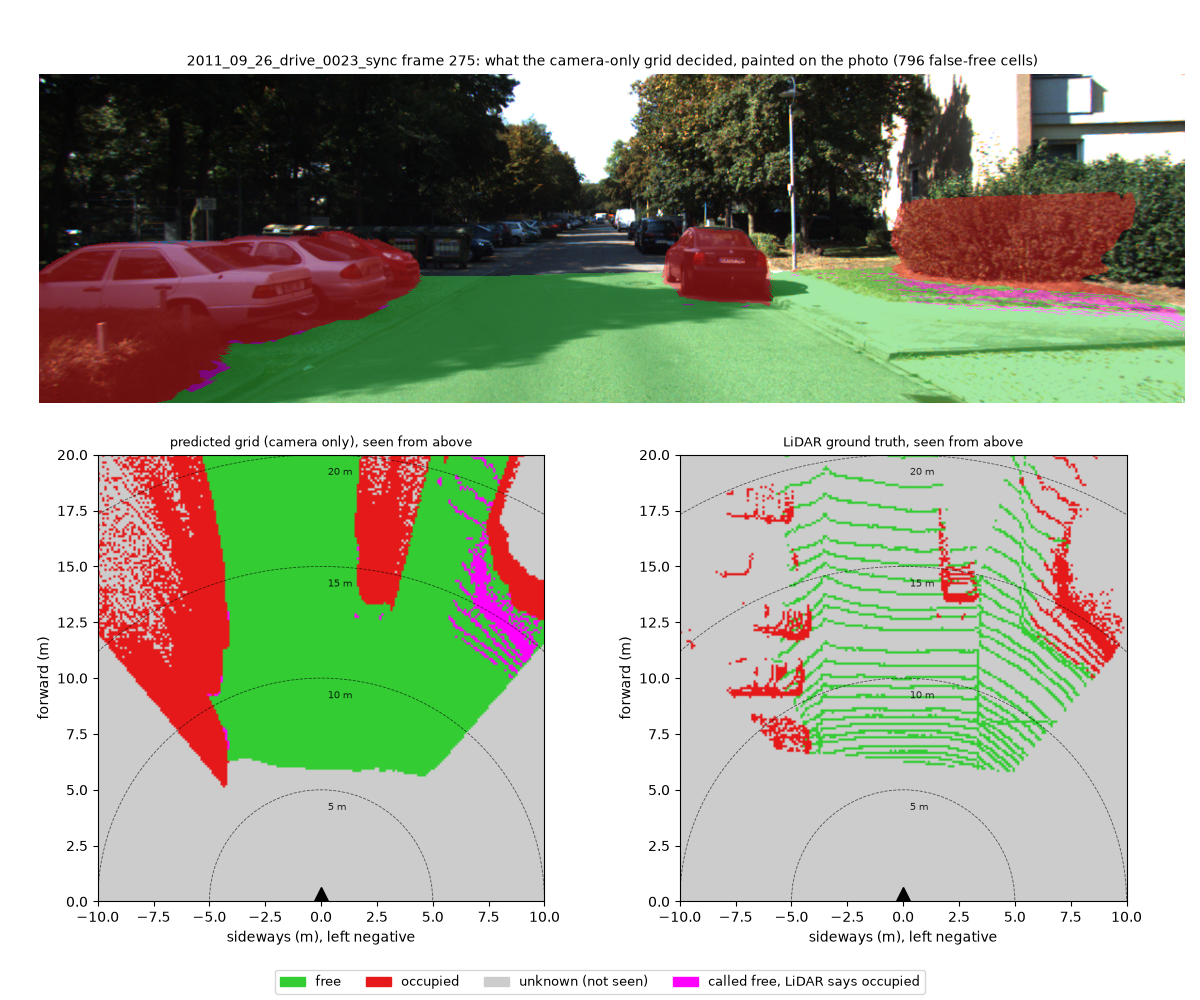
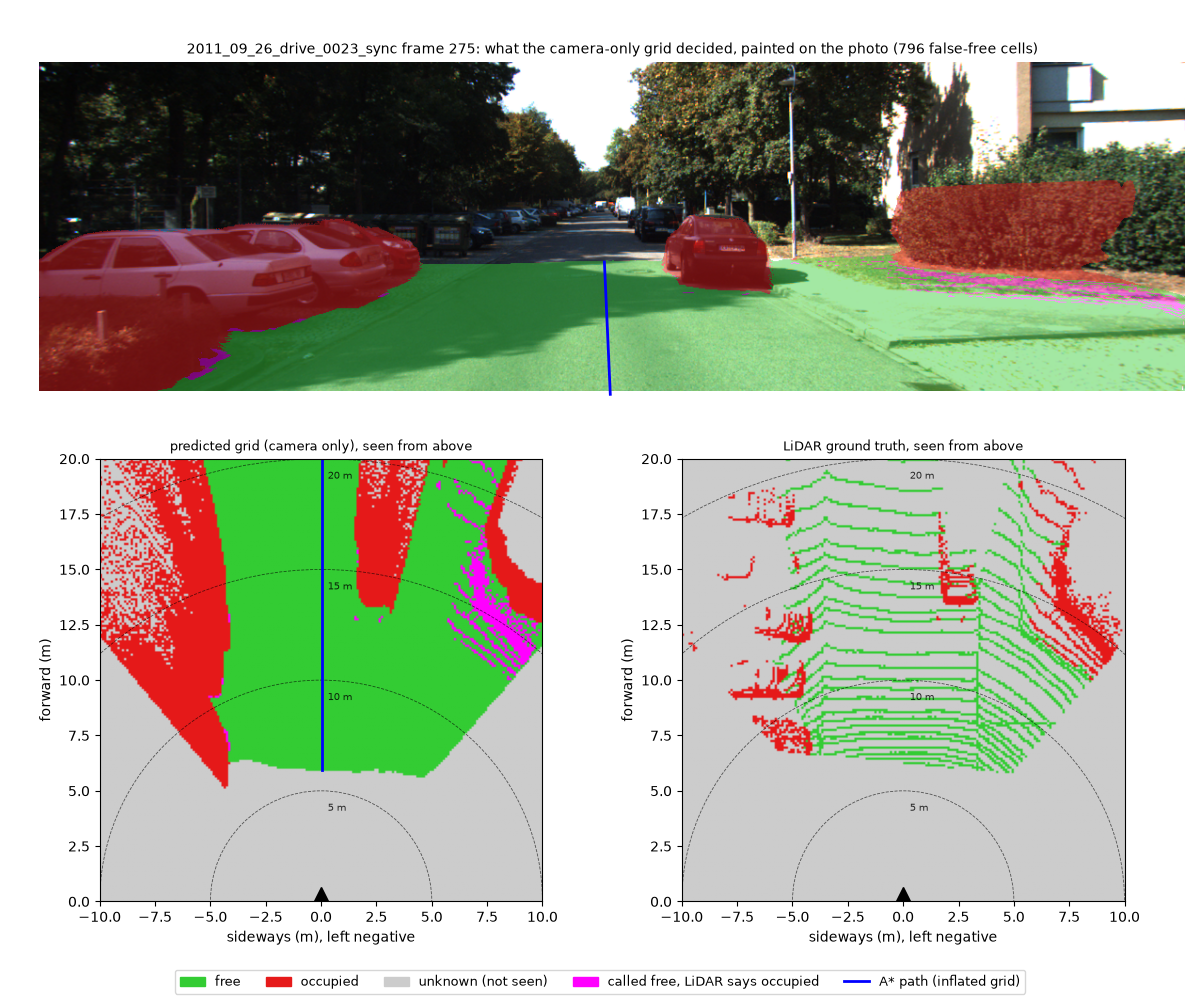
Model complete, planner and segmentation  installed and reported

diff --git a/eval_freespace.py b/eval_freespace.py
@@ -10,14 +10,17 @@ import matplotlib.pyplot as plt
  
 from matplotlib.patches import Circle, Patch
  
-from bev import FREE, OCCUPIED, UNKNOWN, build_grid, cell_centres, cell_index, lidar_to_bev
-from camera import backproject, lidar_to_depth_map, transform_points
+from bev import (FREE, OCCUPIED, UNKNOWN, build_grid, cell_centres, cell_index,
+                 inflate, lidar_to_bev)
+from camera import backproject, lidar_to_depth_map, project, transform_points
 from depth_model import DepthModel, METRIC_CKPT
 from eval_depth import crop_bottom_centre, val_drives
 from ground_plane import fit_ground
 from kitti_loader import KittiRawDrive
+from planner import astar, pick_start_goal
 from pointcloud import IGNORE, classify_heights, floor_frame
 from scale import estimate_metric_scale
+from segmenter import Segmenter, fuse_labels
  
 KITTI_CAMERA_HEIGHT = 1.65
 # Grid for KITTI: the camera sees no road closer than ~5.9 m, so the
@@ -25,6 +28,7 @@ KITTI_CAMERA_HEIGHT = 1.65
 CELL, X_MAX, Y_HALF = 0.10, 20.0, 10.0          # metres
 BANDS = ((0, 10), (10, 15), (15, 20))           # distance from the robot, metres
 UPSAMPLE = 4    # rows per image row before back-projection (see upsample_rows)
+ROBOT_RADIUS = 1.0                              # metres: KITTI car is ~1.8 m wide
  
  
 def upsample_rows(depth, K, k=UPSAMPLE):
@@ -102,15 +106,19 @@ def main():
     p.add_argument("--tag", default="pretrained")
     p.add_argument("--report_dir", default="report")
     p.add_argument("--images", type=int, default=3)
+    p.add_argument("--drivable", default="none", choices=["none", "road", "road+sidewalk"])
     a = p.parse_args()
  
     model = DepthModel(a.checkpoint, weights=a.weights)
+    seg = None if a.drivable == "none" else Segmenter()
+    drivable_ids = None if seg is None else seg.ids(a.drivable.split("+"))
     drives, _ = val_drives(a.root, a.depth_root)
     xs, ys = cell_centres(CELL, X_MAX, Y_HALF)
     dist = np.hypot(xs, ys)
     band_masks = {"all": np.ones_like(dist, bool)}
     band_masks.update({f"{lo}-{hi}m": (dist >= lo) & (dist < hi) for lo, hi in BANDS})
     totals = {k: np.zeros(5, int) for k in band_masks}
+    totals_inf = {k: np.zeros(5, int) for k in band_masks}     # on the inflated grid
     refused, worst = [], []
  
     for date, num, name in drives:
@@ -135,7 +143,13 @@ def main():
                 depth, T = pred, floor_frame(fit["n"], fit["d"])
             depth_k, K_k = upsample_rows(depth, K)
             pts = transform_points(backproject(depth_k, K_k).reshape(-1, 3), T)
-            pred_grid = build_grid(pts, classify_heights(pts), CELL, X_MAX, Y_HALF)
+            labels = classify_heights(pts)
+            if seg is not None:                              # Phase 4 fusion
+                sem = seg.predict(img)
+                sem_k = cv2.resize(sem, (W, UPSAMPLE * H), interpolation=cv2.INTER_NEAREST)
+                labels = fuse_labels(labels, sem_k.reshape(-1), drivable_ids)
+            pred_grid = build_grid(pts, labels, CELL, X_MAX, Y_HALF)
+            pred_inf = inflate(pred_grid, ROBOT_RADIUS, CELL)
  
             # ---- ground-truth grid: LiDAR, with its own floor plane ----
             scan = drive.load_velodyne(f)
@@ -150,36 +164,55 @@ def main():
             known = gt_grid != UNKNOWN
             for k, m in band_masks.items():
                 totals[k] += counts(pred_grid, gt_grid, known & m)
+                totals_inf[k] += counts(pred_inf, gt_grid, known & m)
  
             n_ff = int(((pred_grid == FREE) & (gt_grid == OCCUPIED)).sum())
             if len(worst) < a.images or n_ff > worst[-1][0]:
                 # the photo overlay uses one 3D point per original pixel
                 px = transform_points(backproject(depth, K).reshape(-1, 3), T)
-                painted = paint_photo(img, px, classify_heights(px), pred_grid, gt_grid)
-                worst.append((n_ff, name, f, painted, pred_grid, gt_grid))
+                px_labels = classify_heights(px)
+                if seg is not None:
+                    px_labels = fuse_labels(px_labels, sem.reshape(-1), drivable_ids)
+                painted = paint_photo(img, px, px_labels, pred_grid, gt_grid)
+                start, goal = pick_start_goal(pred_inf)
+                path = astar(pred_inf, start, goal) if start is not None else None
+                worst.append((n_ff, name, f, painted, pred_grid, gt_grid, path, T, K))
                 worst.sort(key=lambda w: -w[0])
                 del worst[a.images:]
         print(f"  {name}: {len(frames)} frames done")
  
     # ---------------- report ----------------
-    report = {"tag": a.tag, "weights": a.weights, "scale": a.scale,
+    report = {"tag": a.tag, "weights": a.weights, "scale": a.scale, "drivable": a.drivable,
+              "robot_radius_m": ROBOT_RADIUS,
               "cell_m": CELL, "x_max_m": X_MAX, "y_half_m": Y_HALF,
               "frames_refused": len(refused), "refused": refused[:20],
               "metrics": {k: ratios(c) for k, c in totals.items()}}
+    for k, c in totals_inf.items():
+        report["metrics"][k]["false_free_rate_inflated"] = c[2] / max(c[3], 1)
     print(f"\nframes refused: {len(refused)}")
-    print(f"\n{'band':>8s}  {'free IoU':>9s}  {'false-free':>10s}  {'missed obst.':>12s}  {'cells':>9s}")
+    print(f"\n{'band':>8s}  {'free IoU':>9s}  {'false-free':>10s}  {'FF inflated':>11s}  "
+          f"{'missed obst.':>12s}  {'cells':>9s}")
     for k, m in report["metrics"].items():
         print(f"{k:>8s}  {m['free_iou']:9.3f}  {m['false_free_rate']:10.3f}  "
-              f"{m['missed_obstacle_rate']:12.3f}  {m['cells_evaluated']:9d}")
+              f"{m['false_free_rate_inflated']:11.3f}  {m['missed_obstacle_rate']:12.3f}  "
+              f"{m['cells_evaluated']:9d}")
  
     os.makedirs(os.path.join(a.report_dir, "image"), exist_ok=True)
     print(f"\nframes with the most false-free cells:")
     legend = [Patch(color=GREEN, label="free"), Patch(color=RED, label="occupied"),
               Patch(color=GREY, label="unknown (not seen)"),
               Patch(color=MAGENTA, label="called free, LiDAR says occupied")]
-    for n_ff, name, f, painted, pg, gg in worst:
+    legend.append(plt.Line2D([], [], color="blue", lw=2, label="A* path (inflated grid)"))
+    for n_ff, name, f, painted, pg, gg, path, T, K in worst:
+        if path:                                        # path cells -> metres on the floor
+            ix, iy = np.array(path).T
+            px_x, px_y = (ix + 0.5) * CELL, Y_HALF - (iy + 0.5) * CELL
         fig = plt.figure(figsize=(12, 10))
         ax0 = fig.add_subplot(2, 1, 1); ax0.imshow(painted); ax0.axis("off")
+        if path:                                        # floor points -> pixels
+            floor = np.stack([px_x, px_y, np.zeros_like(px_x)], 1)
+            uv, z = project(transform_points(floor, np.linalg.inv(T)), K)
+            ax0.plot(uv[:, 0], uv[:, 1], color="blue", lw=2)
         ax0.set_title(f"{name} frame {f}: what the camera-only grid decided, painted on the photo "
                       f"({n_ff} false-free cells)", fontsize=10)
         for i, (g, title, ff) in enumerate([
@@ -191,10 +224,12 @@ def main():
                 ax.add_patch(Circle((0, 0), r, fill=False, ls="--", lw=0.6, alpha=0.6))
                 ax.text(0.3, r - 0.9, f"{r} m", fontsize=7, alpha=0.8)
             ax.plot(0, 0.3, marker="^", markersize=12, color="black")   # the camera
+            if path and i == 0:
+                ax.plot(-px_y, px_x, color="blue", lw=2)    # sideways axis is -y
             ax.set_xlim(-Y_HALF, Y_HALF); ax.set_ylim(0, X_MAX)
             ax.set_title(title, fontsize=9)
             ax.set_xlabel("sideways (m), left negative"); ax.set_ylabel("forward (m)")
-        fig.legend(handles=legend, loc="lower center", ncol=4, fontsize=9)
+        fig.legend(handles=legend, loc="lower center", ncol=5, fontsize=9)
         fig.tight_layout(rect=(0, 0.04, 1, 1))
         path = os.path.join(a.report_dir, "image", f"bev_{a.tag}_{name[17:21]}_{f:03d}.png")
         fig.savefig(path, dpi=100)

diff --git a/planner.py b/planner.py
@@ -1,0 +1,63 @@
+import heapq
+
+import cv2
+import numpy as np
+
+from bev import FREE
+
+STEPS = [(-1, -1), (-1, 0), (-1, 1), (0, -1), (0, 1), (1, -1), (1, 0), (1, 1)]
+
+
+def octile(a, b):
+    """Exact cost between two cells on an empty 8-connected grid: the heuristic."""
+    dx, dy = abs(a[0] - b[0]), abs(a[1] - b[1])
+    return max(dx, dy) + (np.sqrt(2) - 1) * min(dx, dy)
+
+
+def astar(grid, start, goal):
+    """Shortest 8-connected path of FREE cells from start to goal, or None."""
+    nx, ny = grid.shape
+    queue = [(octile(start, goal), 0.0, start)]       # (g + h, g, cell)
+    best = {start: 0.0}
+    came_from = {start: None}
+    while queue:
+        _, g, cell = heapq.heappop(queue)
+        if cell == goal:                               # walk back to the start
+            path = []
+            while cell is not None:
+                path.append(cell)
+                cell = came_from[cell]
+            return path[::-1]
+        if g > best[cell]:                             # stale queue entry
+            continue
+        for di, dj in STEPS:
+            nxt = (cell[0] + di, cell[1] + dj)
+            if not (0 <= nxt[0] < nx and 0 <= nxt[1] < ny) or grid[nxt] != FREE:
+                continue
+            g2 = g + (np.sqrt(2) if di and dj else 1.0)
+            if g2 < best.get(nxt, np.inf):
+                best[nxt], came_from[nxt] = g2, cell
+                heapq.heappush(queue, (g2 + octile(nxt, goal), g2, nxt))
+    return None
+
+
+def pick_start_goal(grid):
+    """
+    A demo task, one frame at a time:
+      start = the FREE cell nearest the robot (the robot itself stands in the
+              camera's blind zone, which is UNKNOWN)
+      goal  = the reachable FREE cell farthest ahead, preferring the centre line
+    "Reachable" = in the same connected patch of free cells as the start, so
+    A* is never asked for an impossible route.
+    """
+    free = (grid == FREE).astype(np.uint8)
+    if not free.any():
+        return None, None
+    rows, cols = np.nonzero(free)
+    centre = grid.shape[1] / 2
+    i = np.argmin(rows ** 2 + (cols - centre) ** 2)
+    start = (int(rows[i]), int(cols[i]))
+    _, comp = cv2.connectedComponents(free, connectivity=8)
+    rows, cols = np.nonzero(comp == comp[start])
+    i = np.argmax(rows - 0.5 * np.abs(cols - centre))
+    return start, (int(rows[i]), int(cols[i]))

diff --git a/segmenter.py b/segmenter.py
@@ -1,0 +1,51 @@
+import numpy as np
+import torch
+import torch.nn.functional as F
+from transformers import SegformerForSemanticSegmentation
+
+from depth_model import lead_normalisation, to_input_tensor
+from pointcloud import GROUND, OBSTACLE
+
+SEG_CKPT = "nvidia/segformer-b0-finetuned-cityscapes-1024-1024"
+
+
+class Segmenter:
+    def __init__(self, checkpoint=SEG_CKPT, device=None):
+        self.device = device or ("cuda" if torch.cuda.is_available() else "cpu")
+        self.model = SegformerForSemanticSegmentation.from_pretrained(checkpoint)
+        self.model.to(self.device).eval()
+        self.mean, self.std = lead_normalisation(checkpoint)
+        cfg = self.model.config
+        self.names = [cfg.id2label[i] for i in range(cfg.num_labels)]   # class id -> name
+
+    def ids(self, class_names):
+        """Class names (e.g. ["road", "sidewalk"]) -> their integer ids."""
+        return [self.names.index(c) for c in class_names]
+
+    @torch.no_grad()
+    def predict(self, image_rgb):
+        """
+        uint8 (H, W, 3) RGB -> (H, W) class ids.
+
+        SegFormer outputs one score per class at 1/4 resolution; the scores
+        are upsampled to full size first and the best class taken after, so
+        boundaries stay smooth. The image is NOT resized beforehand: any size
+        works, and keeping the pixel grid means each label lines up exactly
+        with the depth map's pixel.
+        """
+        x = to_input_tensor(image_rgb, self.mean, self.std).unsqueeze(0).to(self.device)
+        logits = self.model(pixel_values=x).logits                      # (1, C, H/4, W/4)
+        logits = F.interpolate(logits, size=image_rgb.shape[:2], mode="bilinear",
+                               align_corners=False)
+        return logits.argmax(1)[0].cpu().numpy().astype(np.uint8)
+
+
+def fuse_labels(labels, semantic, drivable_ids):
+    """
+    labels   : (N,) height labels from classify_heights
+    semantic : (N,) class id of the pixel each point came from
+    Flat points whose class is not drivable become obstacles.
+    """
+    out = labels.copy()
+    out[(labels == GROUND) & ~np.isin(semantic, drivable_ids)] = OBSTACLE
+    return out
